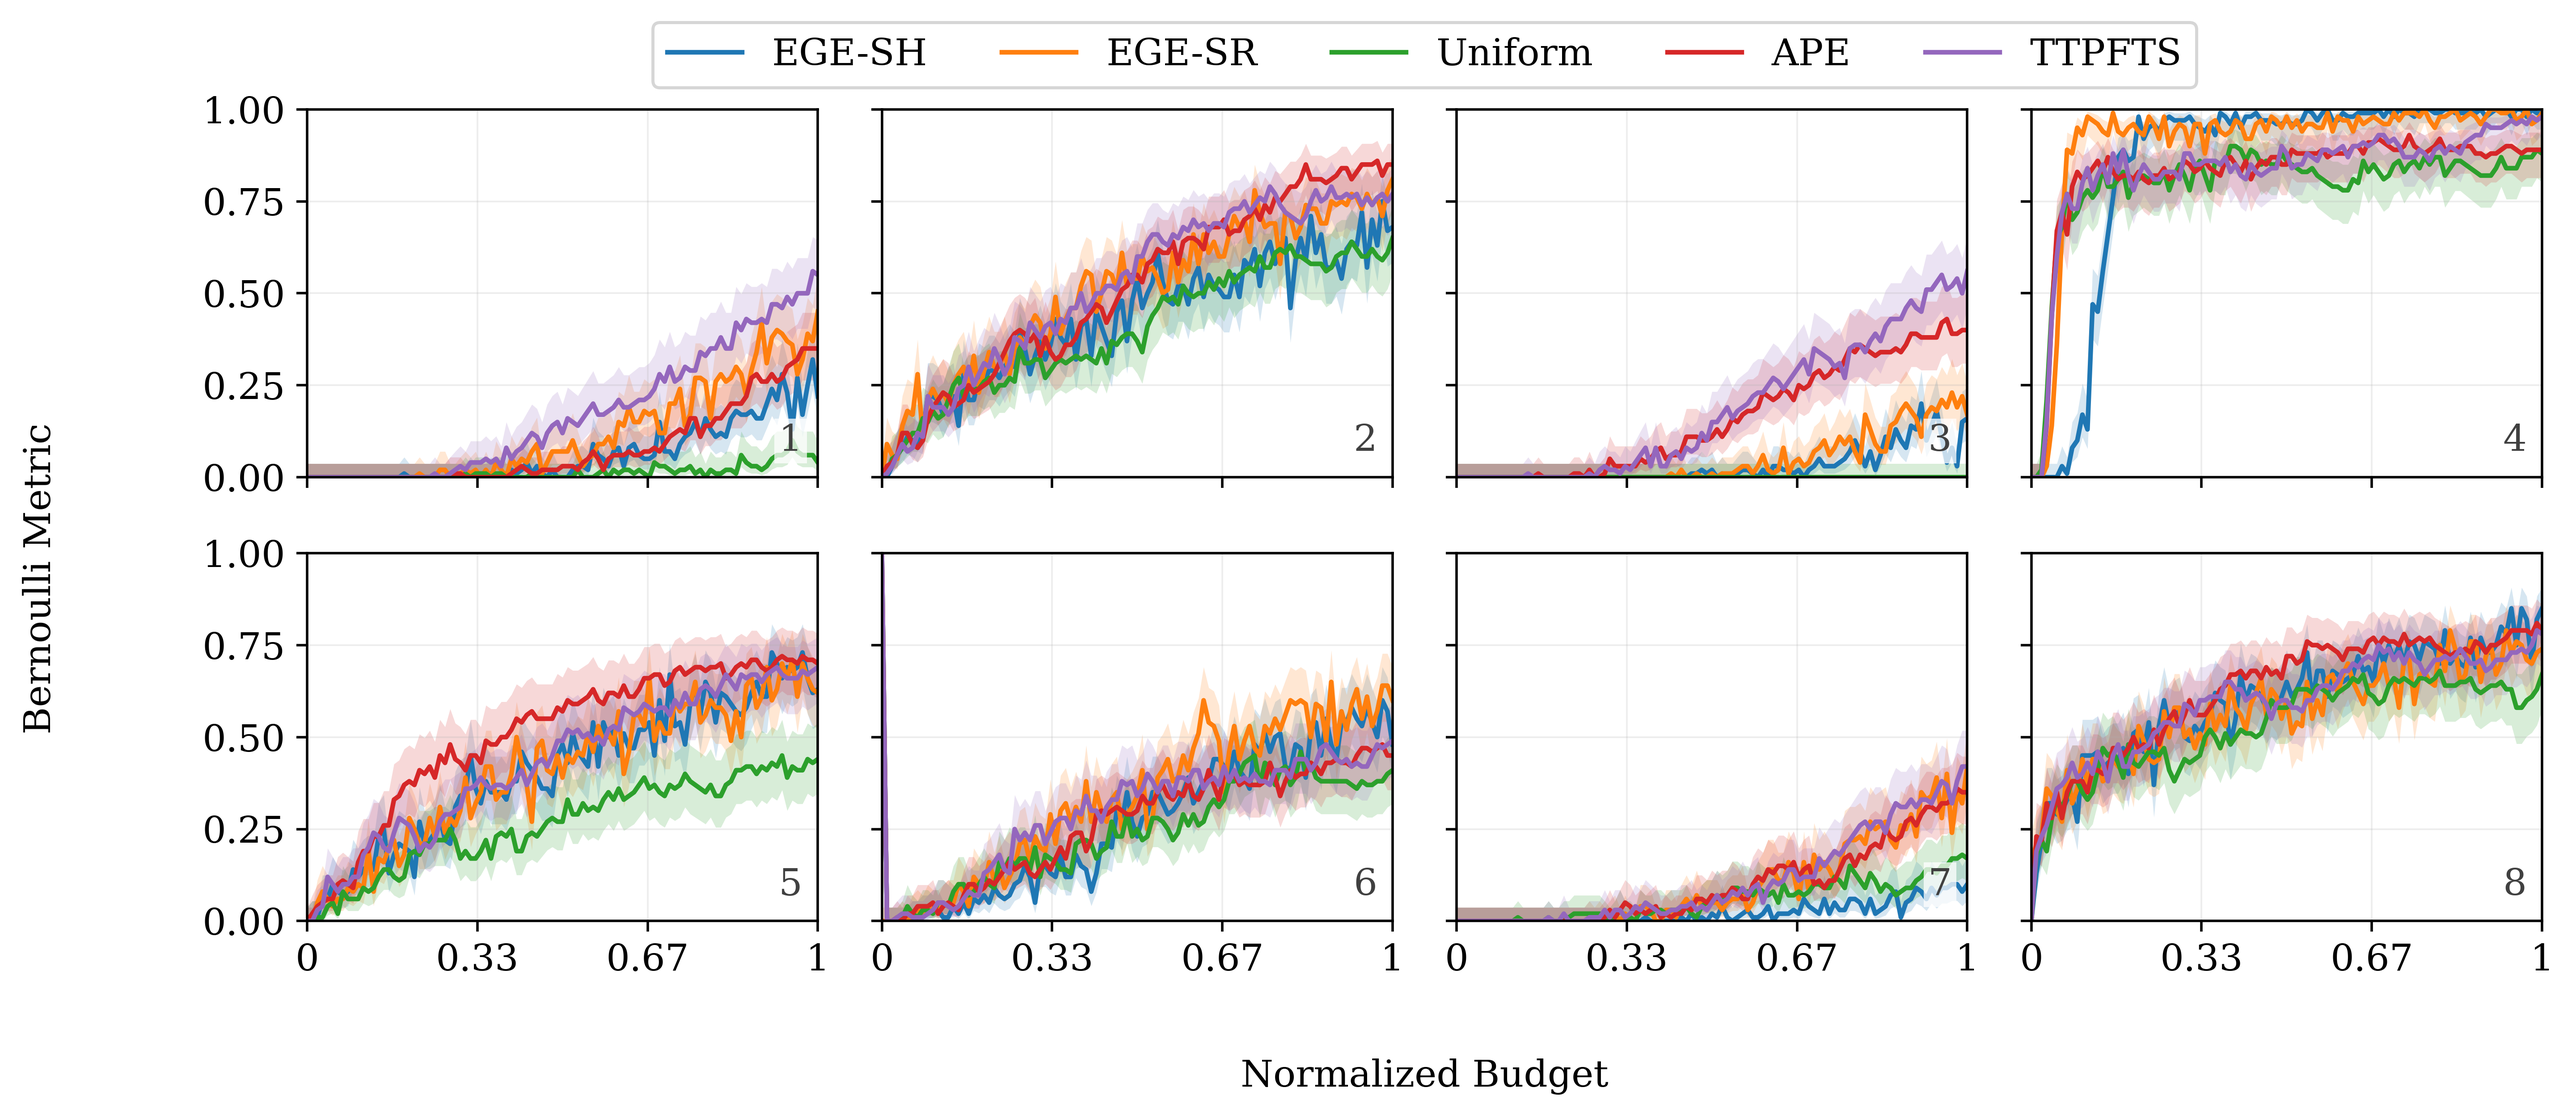
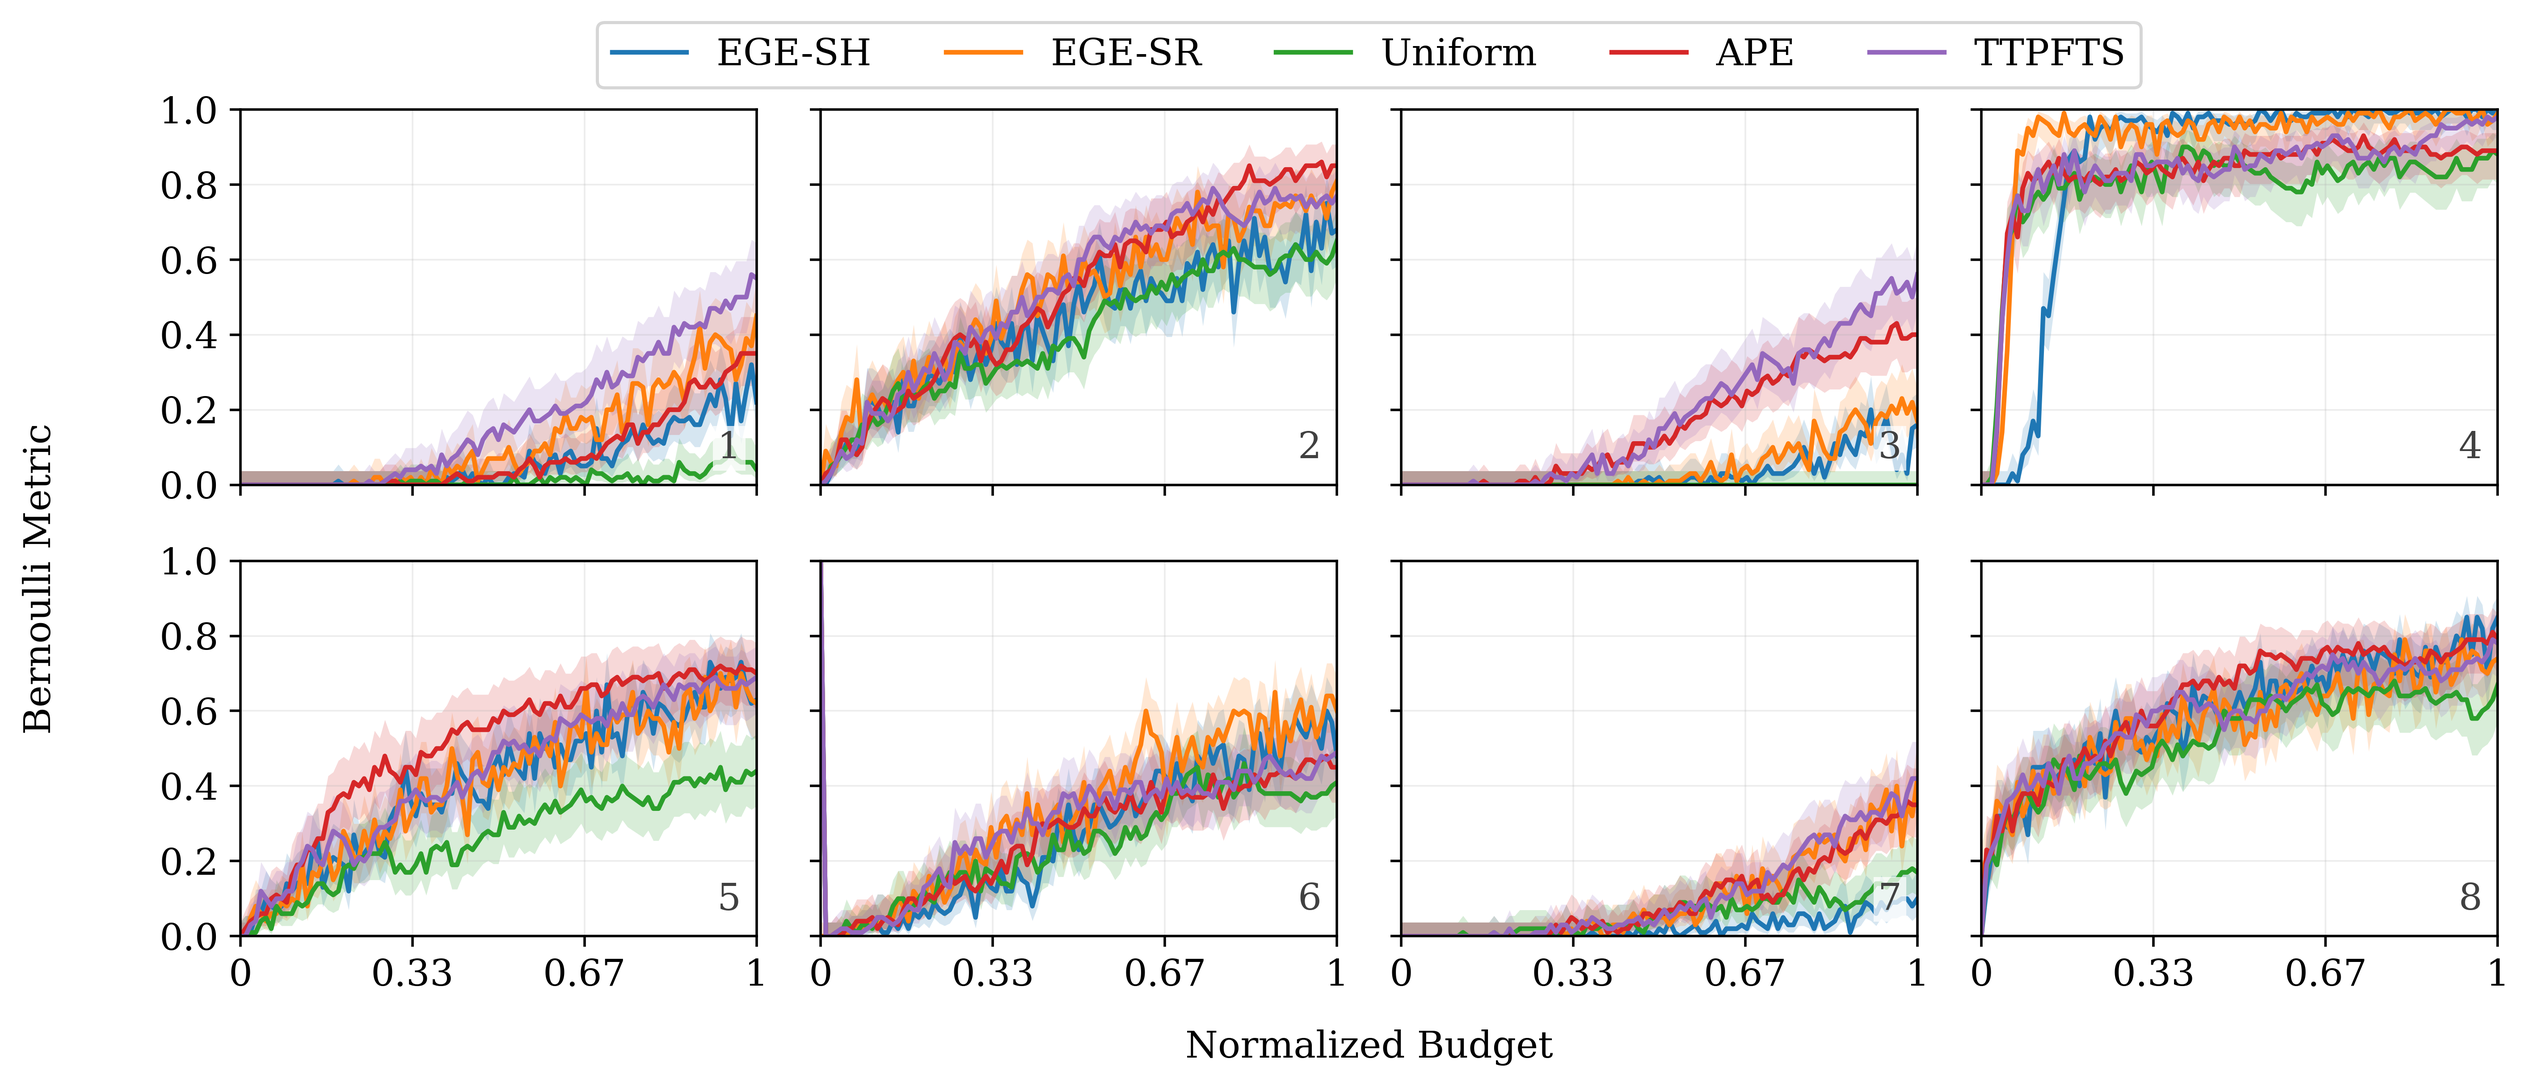
Rebalance publication label spacing
Reduce the excessive whitespace added around the shared metric and normalized-budget labels while preserving readable separation from the subplot grid.

diff --git a/plotting.py b/plotting.py
@@ -640,18 +640,18 @@ def plot_metric_all_envs_grid_top_legend(
     )
     x_label = fig.supxlabel(
         "Normalized Budget",
-        y=0.15,
+        y=0.17,
         fontsize=PUBLICATION_FONT_SIZE,
     )
     fig.supylabel(
         METRIC_LABELS[metric_key],
-        x=0.115,
+        x=0.13,
         fontsize=PUBLICATION_FONT_SIZE,
     )
     # Reserve a fixed band for the figure-level legend.  This must not be
     # inferred from the axes' tick-label extents: log-scaled axes have taller
     # tick labels and would otherwise push the legend outside the saved figure.
-    fig.tight_layout(rect=[0.145, 0.15, 1, 0.855])
+    fig.tight_layout(rect=[0.137, 0.14, 1, 0.855])
     visible_axes = [ax for ax in axes.flat if ax.get_visible()]
     grid_left = min(ax.get_position().x0 for ax in visible_axes)
     grid_right = max(ax.get_position().x1 for ax in visible_axes)
